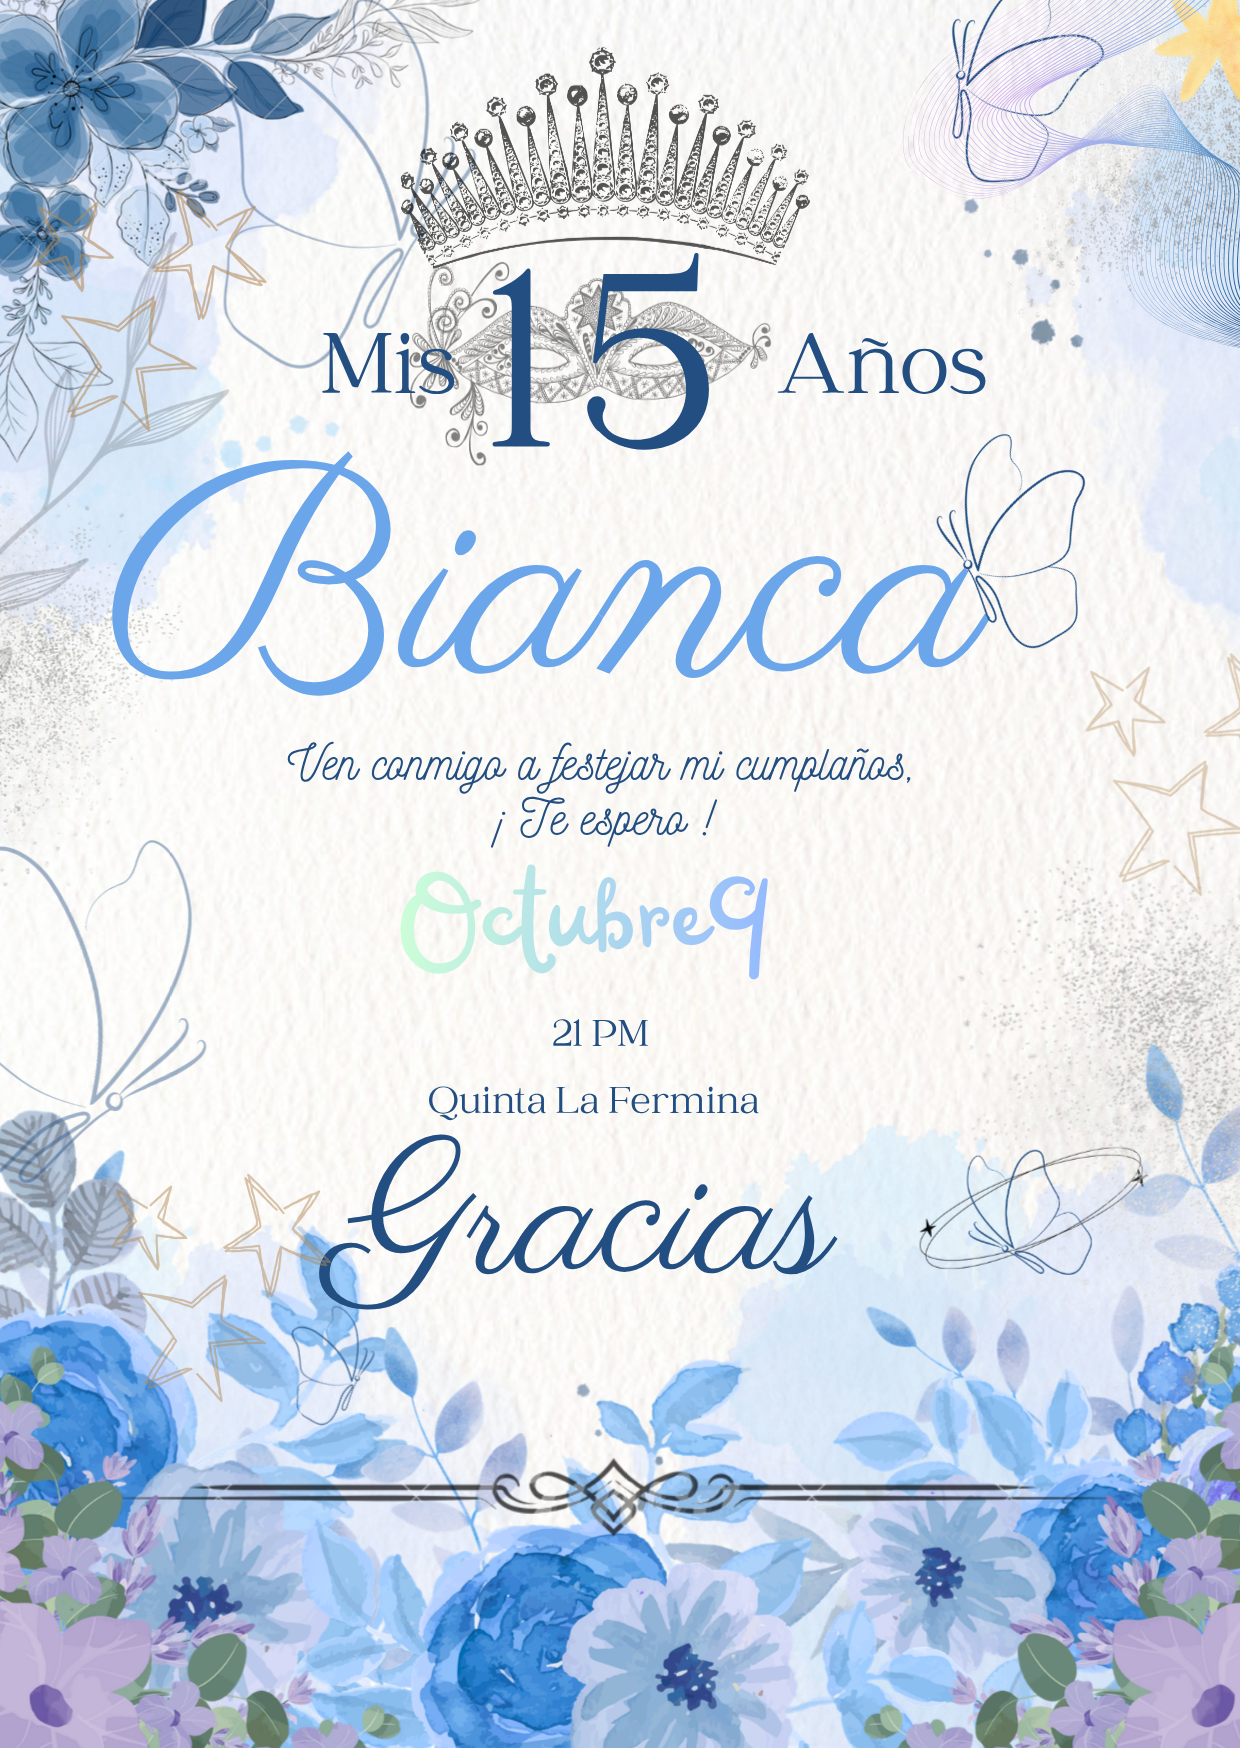
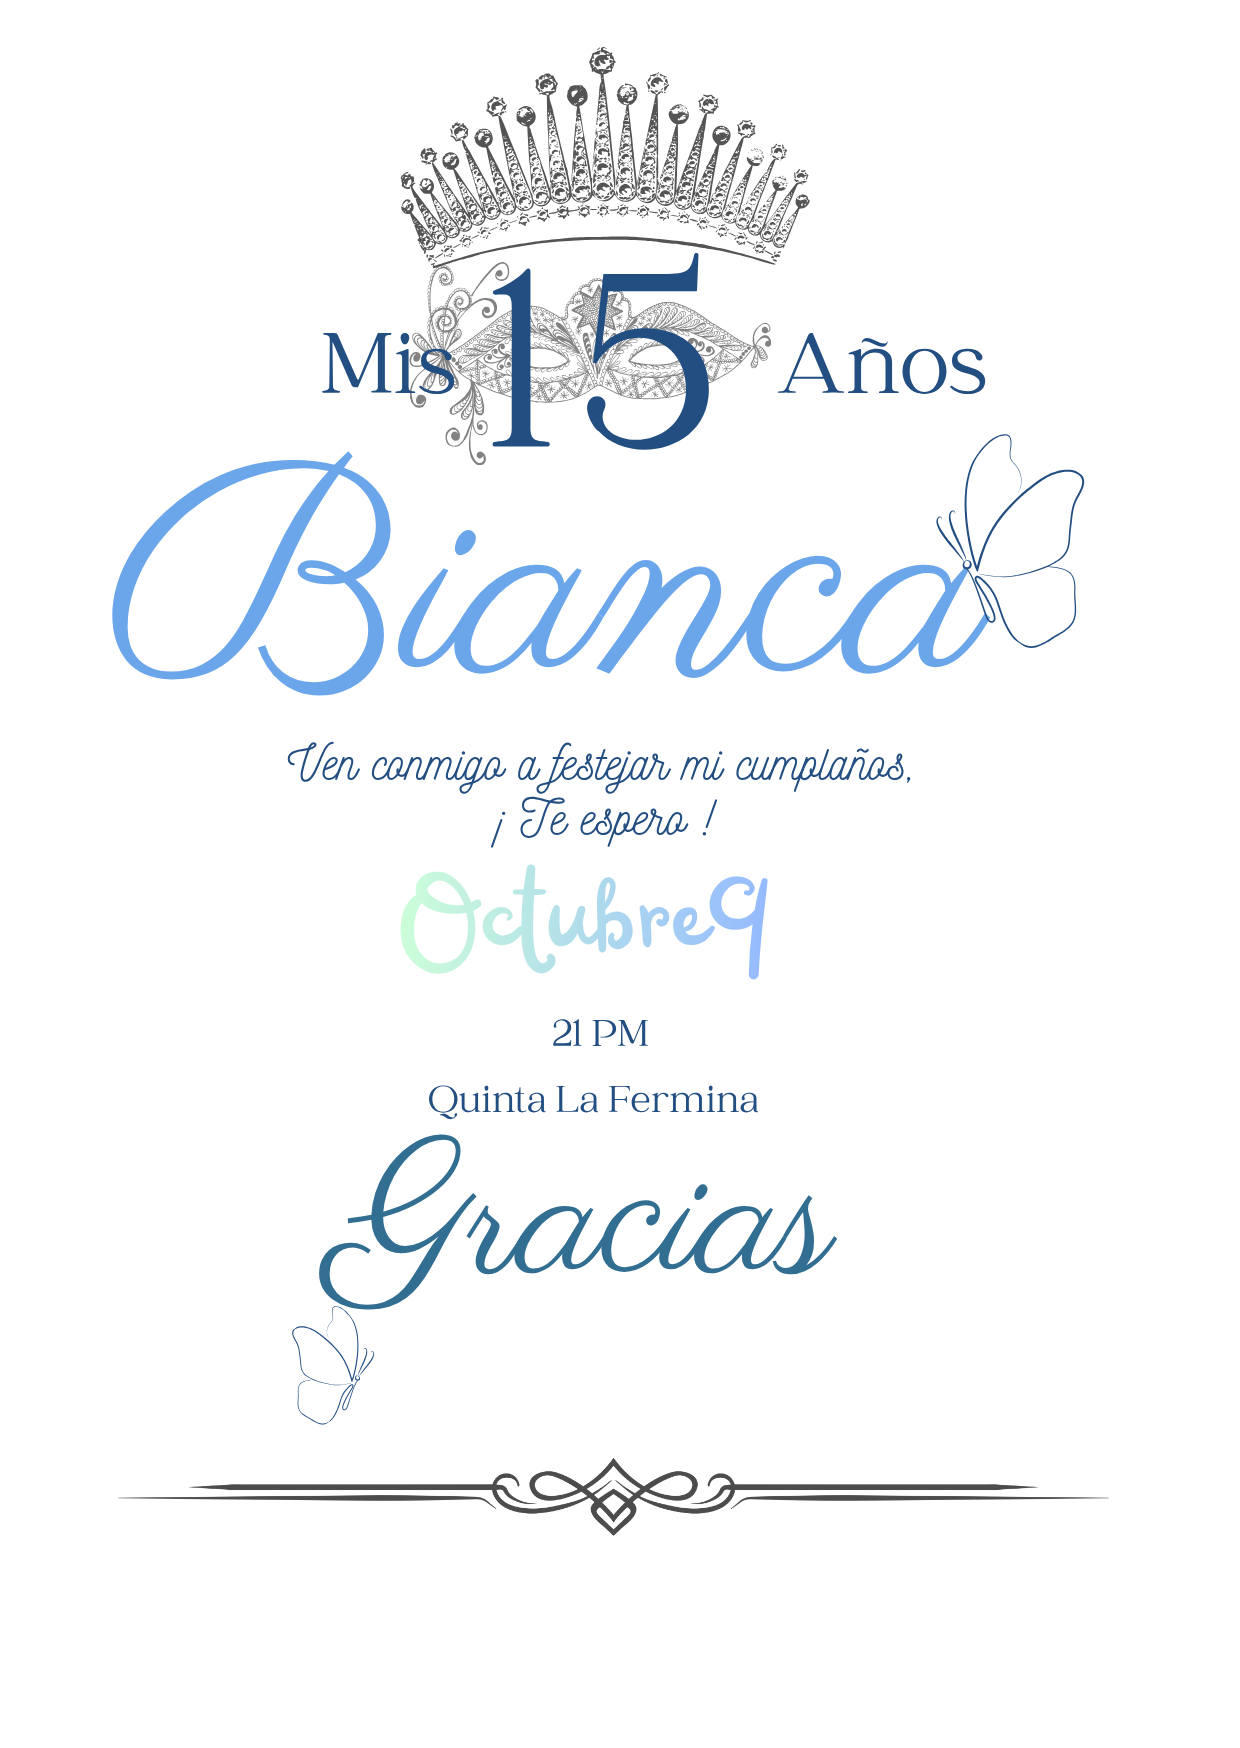
cambio total

diff --git a/src/App.tsx b/src/App.tsx
@@ -1,6 +1,5 @@
 import { useRef, useState } from 'react'
-import cardArt from './imports/images.png'
-import CardBanner from './components/CardBanner'
+import PageEdges from './components/PageEdges'
 import Countdown from './components/Countdown'
 import InvitationCard from './components/InvitationCard'
 import VenueGallery from './components/VenueGallery'
@@ -30,10 +29,6 @@ export default function App() {
       className="min-h-screen relative"
       style={{
         backgroundColor: '#f9f7f2',
-        backgroundImage: `url(${cardArt})`,
-        backgroundRepeat: 'repeat-y',
-        backgroundSize: '100% auto',
-        backgroundPosition: 'top center',
         fontFamily: "'Raleway', sans-serif",
       }}
     >
@@ -53,6 +48,8 @@ export default function App() {
         {playing ? '🔊' : '🎵'}
       </button>
 
+      <PageEdges />
+
       <div className="relative" style={{ zIndex: 1 }}>
         <Countdown />
         <VenueGallery />
@@ -64,9 +61,7 @@ export default function App() {
           <InvitationCard />
         </section>
 
-        <CardBanner variant="bottom">
-          <PageFooter />
-        </CardBanner>
+        <PageFooter />
       </div>
     </div>
   )

diff --git a/src/components/PageEdges.tsx b/src/components/PageEdges.tsx
@@ -1,0 +1,16 @@
+import fullCardArt from '../imports/Invitación 15 años Floral Elegante Azul.png'
+
+// Full-page decorative art (crown, flowers, butterflies, stars distributed
+// top to bottom) sized to match the page's own scroll height, so it stretches
+// exactly once across the whole page instead of being cropped or tiled.
+export default function PageEdges() {
+  return (
+    <img
+      src={fullCardArt}
+      alt=""
+      aria-hidden="true"
+      className="absolute inset-0 w-full h-full pointer-events-none"
+      style={{ objectFit: 'cover', objectPosition: 'top center' }}
+    />
+  )
+}
